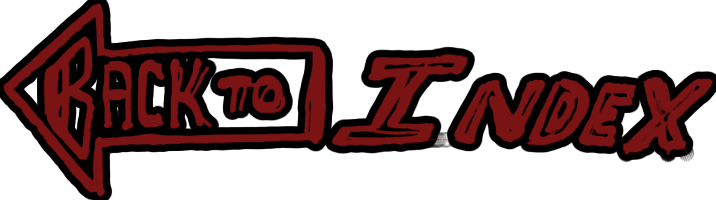
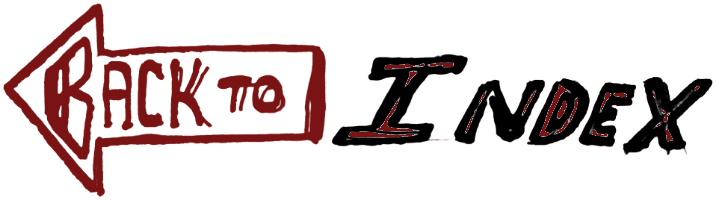
Nav: revert INDEX styling to recolor approach; fix codex figure overlap
The black-outline version of the INDEX logo wasn't wanted. Reverted
to the pre-outline art and instead recolored just the "INDEX" word
(not "BACK TO" or the arrow) in place: ink stroke -> black, enclosed
letter counters flood-filled with the site's dark red, same size
and shape as before.

The codex corner figure's last enlargement (to 16%) pushed it into
the second PDF embed on desktop. Shrunk it back to 12% on desktop
(mobile, where the embed is hidden, keeps the larger 23%) and
confirmed clearance from both the embed and the bottom border at
several desktop widths.

diff --git a/codex.html b/codex.html
@@ -13,7 +13,7 @@
 <meta property="og:image" content="https://comodorosuleyman.github.io/accueil.jpg">
 <meta name="twitter:card" content="summary_large_image">
 <link rel="icon" type="image/png" href="favicon.png">
-<link rel="stylesheet" href="styles.css?v=74">
+<link rel="stylesheet" href="styles.css?v=75">
 </head>
 <body class="codex-page">
 <div class="frame-page">
@@ -30,7 +30,7 @@
   <img src="codex-figure.jpg" alt="Drawing: a framed figure with arms crossed and a head made of ornate clustered shapes" class="codex-figure">
 </div>
 <nav class="menu" aria-label="Main menu">
-  <a href="index.html"><img src="index-word.png?v=4" alt="Index"></a>
+  <a href="index.html"><img src="index-word.png?v=5" alt="Index"></a>
   <a href="audio.html"><img src="titre-audio.png?v=2" alt="Audio"></a>
   <a href="video.html"><img src="titre-video.png?v=2" alt="Video"></a>
   <a href="argumentum.html"><img src="titre-argumentum.png?v=2" alt="Argumentum"></a>

diff --git a/agenda.html b/agenda.html
@@ -13,7 +13,7 @@
 <meta property="og:image" content="https://comodorosuleyman.github.io/accueil.jpg">
 <meta name="twitter:card" content="summary_large_image">
 <link rel="icon" type="image/png" href="favicon.png">
-<link rel="stylesheet" href="styles.css?v=74">
+<link rel="stylesheet" href="styles.css?v=75">
 </head>
 <body>
 <div class="frame-page">
@@ -23,7 +23,7 @@
     <img src="agenda-vanguard.jpg" alt="Notebook page: Village Vanguard (2028)" class="agenda-art">  </div>
 </div>
 <nav class="menu" aria-label="Main menu">
-  <a href="index.html"><img src="index-word.png?v=4" alt="Index"></a>
+  <a href="index.html"><img src="index-word.png?v=5" alt="Index"></a>
   <a href="audio.html"><img src="titre-audio.png?v=2" alt="Audio"></a>
   <a href="video.html"><img src="titre-video.png?v=2" alt="Video"></a>
   <a href="codex.html"><img src="titre-codex.png?v=2" alt="Codex"></a>

diff --git a/audio.html b/audio.html
@@ -13,7 +13,7 @@
 <meta property="og:image" content="https://comodorosuleyman.github.io/accueil.jpg">
 <meta name="twitter:card" content="summary_large_image">
 <link rel="icon" type="image/png" href="favicon.png">
-<link rel="stylesheet" href="styles.css?v=74">
+<link rel="stylesheet" href="styles.css?v=75">
 </head>
 <body class="audio-page">
 <div class="frame-page">
@@ -27,7 +27,7 @@
   </div>
 </div>
 <nav class="menu" aria-label="Main menu">
-  <a href="index.html"><img src="index-word.png?v=4" alt="Index"></a>
+  <a href="index.html"><img src="index-word.png?v=5" alt="Index"></a>
   <a href="video.html"><img src="titre-video.png?v=2" alt="Video"></a>
   <a href="codex.html"><img src="titre-codex.png?v=2" alt="Codex"></a>
   <a href="argumentum.html"><img src="titre-argumentum.png?v=2" alt="Argumentum"></a>

diff --git a/comodoro.html b/comodoro.html
@@ -13,7 +13,7 @@
 <meta property="og:image" content="https://comodorosuleyman.github.io/accueil.jpg">
 <meta name="twitter:card" content="summary_large_image">
 <link rel="icon" type="image/png" href="favicon.png">
-<link rel="stylesheet" href="styles.css?v=74">
+<link rel="stylesheet" href="styles.css?v=75">
 </head>
 <body class="comodoro-page">
 <div class="frame-page">
@@ -27,7 +27,7 @@
   </div>
 </div>
 <nav class="menu" aria-label="Main menu">
-  <a href="index.html"><img src="index-word.png?v=4" alt="Index"></a>
+  <a href="index.html"><img src="index-word.png?v=5" alt="Index"></a>
   <a href="audio.html"><img src="titre-audio.png?v=2" alt="Audio"></a>
   <a href="video.html"><img src="titre-video.png?v=2" alt="Video"></a>
   <a href="codex.html"><img src="titre-codex.png?v=2" alt="Codex"></a>

diff --git a/video.html b/video.html
@@ -13,7 +13,7 @@
 <meta property="og:image" content="https://comodorosuleyman.github.io/accueil.jpg">
 <meta name="twitter:card" content="summary_large_image">
 <link rel="icon" type="image/png" href="favicon.png">
-<link rel="stylesheet" href="styles.css?v=74">
+<link rel="stylesheet" href="styles.css?v=75">
 </head>
 <body>
 <div class="frame-page">
@@ -31,7 +31,7 @@
   </div>
 </div>
 <nav class="menu" aria-label="Main menu">
-  <a href="index.html"><img src="index-word.png?v=4" alt="Index"></a>
+  <a href="index.html"><img src="index-word.png?v=5" alt="Index"></a>
   <a href="audio.html"><img src="titre-audio.png?v=2" alt="Audio"></a>
   <a href="codex.html"><img src="titre-codex.png?v=2" alt="Codex"></a>
   <a href="argumentum.html"><img src="titre-argumentum.png?v=2" alt="Argumentum"></a>

diff --git a/contact.html b/contact.html
@@ -13,7 +13,7 @@
 <meta property="og:image" content="https://comodorosuleyman.github.io/accueil.jpg">
 <meta name="twitter:card" content="summary_large_image">
 <link rel="icon" type="image/png" href="favicon.png">
-<link rel="stylesheet" href="styles.css?v=74">
+<link rel="stylesheet" href="styles.css?v=75">
 </head>
 <body>
 <div class="frame-page">
@@ -27,7 +27,7 @@
   </div>
 </div>
 <nav class="menu" aria-label="Main menu">
-  <a href="index.html"><img src="index-word.png?v=4" alt="Index"></a>
+  <a href="index.html"><img src="index-word.png?v=5" alt="Index"></a>
   <a href="audio.html"><img src="titre-audio.png?v=2" alt="Audio"></a>
   <a href="video.html"><img src="titre-video.png?v=2" alt="Video"></a>
   <a href="codex.html"><img src="titre-codex.png?v=2" alt="Codex"></a>

diff --git a/argumentum.html b/argumentum.html
@@ -13,7 +13,7 @@
 <meta property="og:image" content="https://comodorosuleyman.github.io/accueil.jpg">
 <meta name="twitter:card" content="summary_large_image">
 <link rel="icon" type="image/png" href="favicon.png">
-<link rel="stylesheet" href="styles.css?v=74">
+<link rel="stylesheet" href="styles.css?v=75">
 </head>
 <body>
 <main class="argumentum-page">
@@ -83,7 +83,7 @@
 
 </main>
 <nav class="menu" aria-label="Main menu">
-  <a href="index.html"><img src="index-word.png?v=4" alt="Index"></a>
+  <a href="index.html"><img src="index-word.png?v=5" alt="Index"></a>
   <a href="audio.html"><img src="titre-audio.png?v=2" alt="Audio"></a>
   <a href="video.html"><img src="titre-video.png?v=2" alt="Video"></a>
   <a href="codex.html"><img src="titre-codex.png?v=2" alt="Codex"></a>

diff --git a/styles.css b/styles.css
@@ -145,7 +145,7 @@ body.audio-page .frame-page { width: min(96vw, 1350px); }
    mix-blend-mode:multiply - le fond blanc du jpg scanné devient transparent
    (se fond dans la couleur de fond de la page, quelle qu'elle soit) tandis
    que le trait noir reste noir. */
-.codex-figure { position: absolute; left: 15%; bottom: 14%; width: 16%; height: auto; z-index: 1; mix-blend-mode: multiply; }
+.codex-figure { position: absolute; left: 15%; bottom: 14%; width: 12%; height: auto; z-index: 1; mix-blend-mode: multiply; }
 @media (max-width: 640px) {
   .codex-figure { width: 23%; left: 15%; bottom: 14%; }
 }

diff --git a/index.html b/index.html
@@ -13,7 +13,7 @@
 <meta property="og:image" content="https://comodorosuleyman.github.io/accueil.jpg">
 <meta name="twitter:card" content="summary_large_image">
 <link rel="icon" type="image/png" href="favicon.png">
-<link rel="stylesheet" href="styles.css?v=74">
+<link rel="stylesheet" href="styles.css?v=75">
 </head>
 <body class="home">
 <h1 class="visually-hidden">Comodoro Süleyman</h1>
